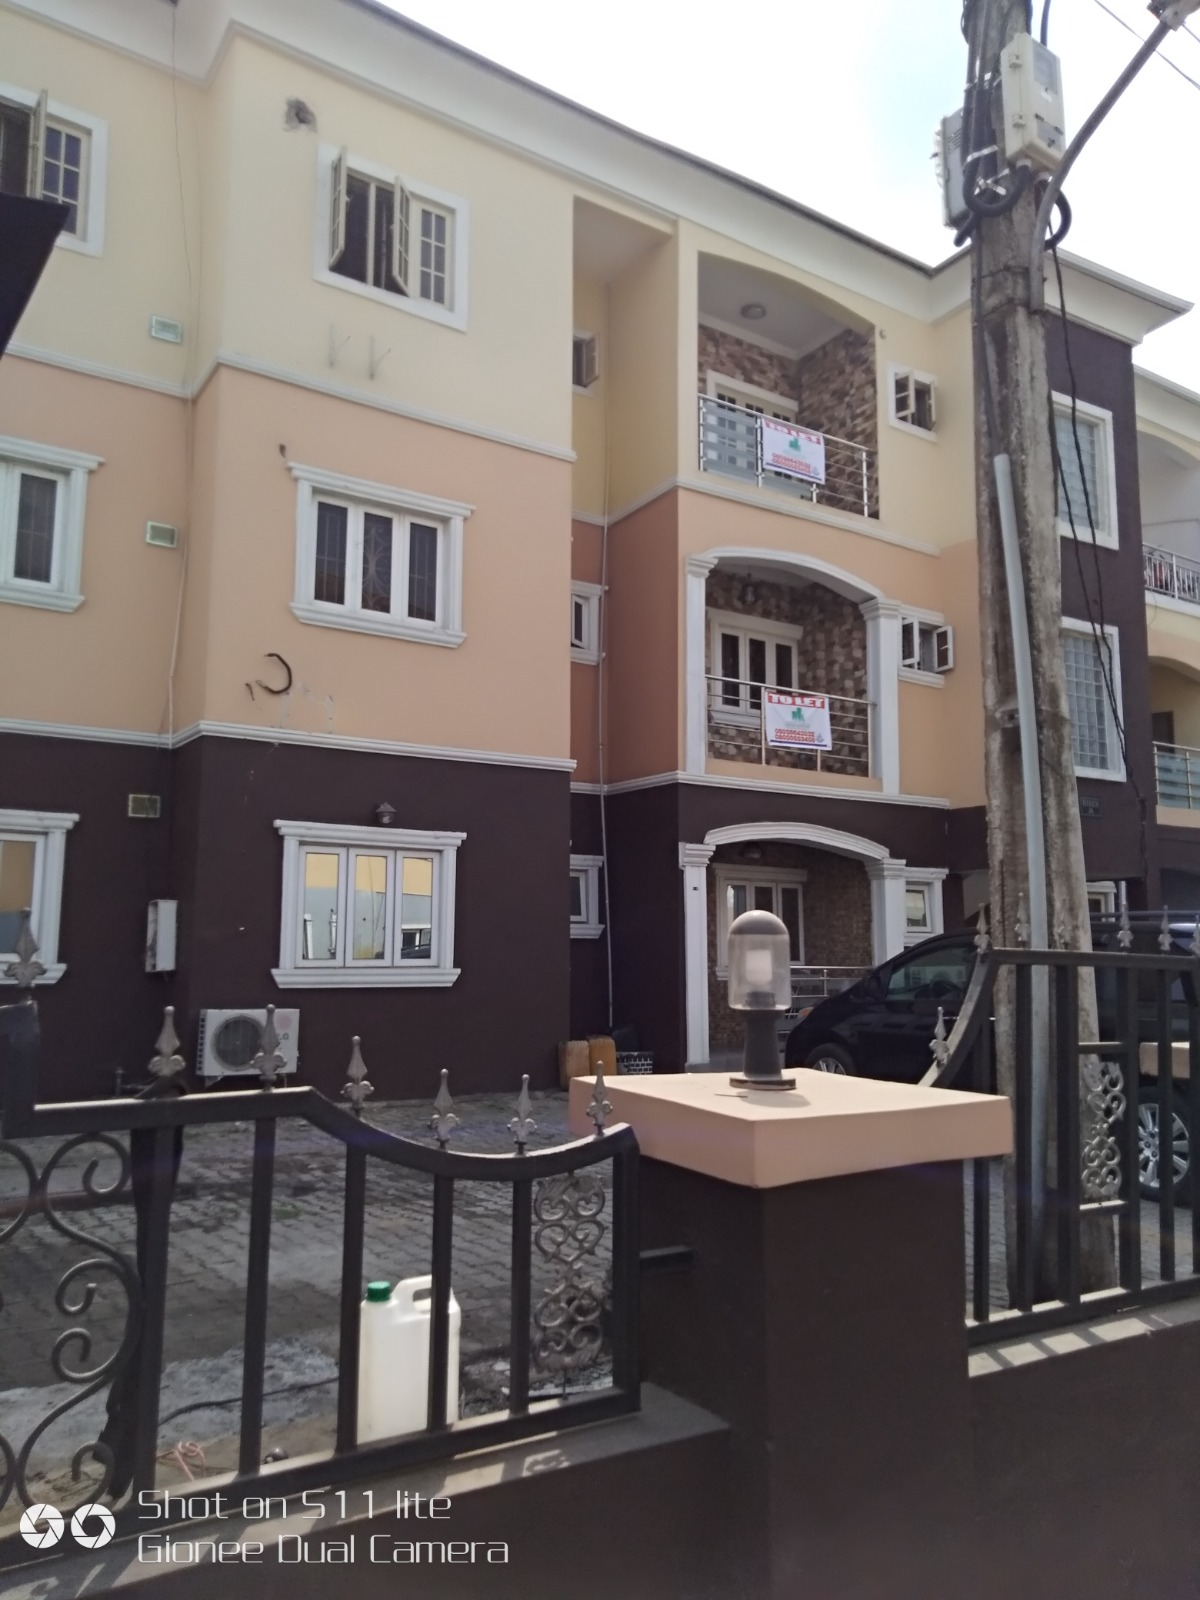
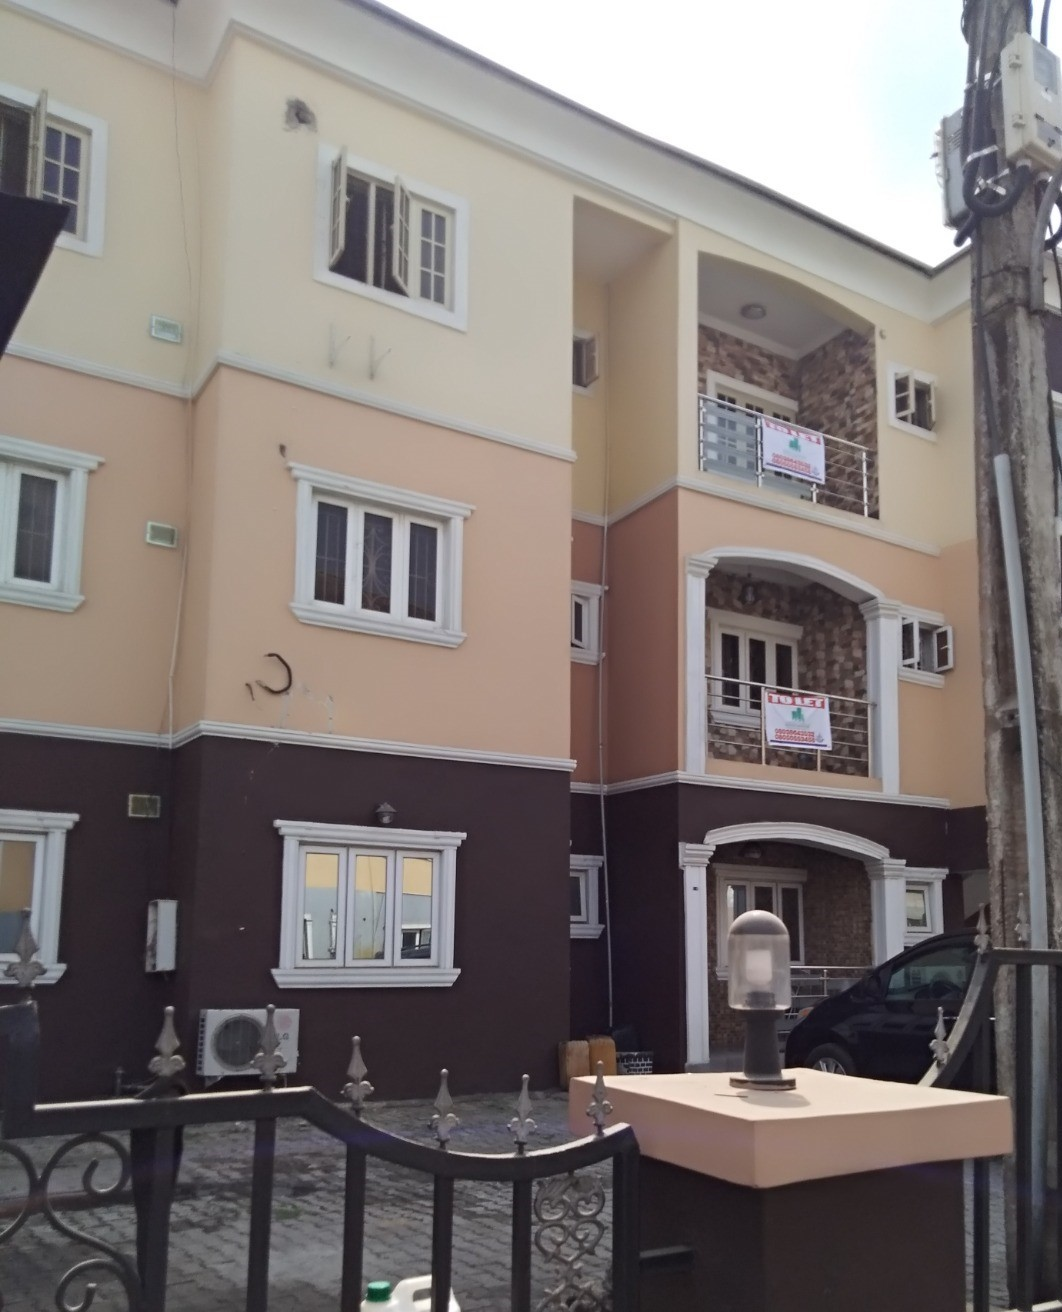
Updated images and listing.html

diff --git a/listing.html b/listing.html
@@ -75,7 +75,7 @@
         <div class="grid md:grid-cols-3 gap-8">
             <!-- Property 1: TO LEASE -->
             <div class="bg-white shadow-lg rounded-lg overflow-hidden">
-                <img src="img/ile1.jpg" alt="Industrial Warehouse" class="w-full h-70% object-cover">
+                <img src="img/ile4.jpg" alt="Industrial Warehouse" class="w-full h-90% object-cover">
                 <div class="p-6">
                     <h3 class="text-xl font-semibold text-orange-600">HOT SALE/LETTING</h3>
                     <p class="text-gray-700 mt-2">Newly built 5 units of 4-bedroom terrace apartments with a maid's
@@ -91,24 +91,24 @@
                 </div>
             </div>
 
-            <!-- Property 2: HOT SALE/LETTING -->
+            <!-- Property 2 -->
             <div class="bg-white shadow-lg rounded-lg overflow-hidden">
-                <img src="img/ile2.jpg" alt="4 Bedroom Terrace Apartment" class="w-full h-60% object-cover">
+                <img src="img/ile2.jpg" alt="4 Bedroom Terrace Apartment" class="w-full h-90% object-cover">
                 <div class="p-6">
-                    <h3 class="text-xl font-semibold text-orange-600">HOT SALE/LETTING</h3>
-                        <h3 class="text-xl font-semibold text-orange-600">FOR SALE</h3>
-                        <p class="text-gray-700 mt-2">A 3-bedroom block of flats with 24hrs security, all rooms ensuite, visitor's toilet, and parking space.</p>
-                        <ul class="text-gray-600 text-sm mt-3">
-                            <li><strong>Location:</strong> Minimal Estate, MM2 Road, Ikeja, Lagos</li>
-                            <li><strong>Price:</strong> 120,000,000</li>
-                        </ul>
+                    <h3 class="text-xl font-semibold text-orange-600">FOR SALE</h3>
+                    <p class="text-gray-700 mt-2">A 3-bedroom block of flats with 24hrs security, all rooms ensuite,
+                        visitor's toilet, and parking space.</p>
+                    <ul class="text-gray-600 text-sm mt-3">
+                        <li><strong>Location:</strong> Minimal Estate, MM2 Road, Ikeja, Lagos</li>
+                        <li><strong>Price:</strong> 120,000,000</li>
+                    </ul>
                     <a href="tel:+2348098338814" class="text-blue-600 underline mt-3 block">Call an Agent</a>
                 </div>
             </div>
 
             <!-- Property 3: FOR SALE -->
             <div class="bg-white shadow-lg rounded-lg overflow-hidden">
-                <img src="img/ile3.jpg" alt="3 Bedroom Block of Flat" class="w-full h-70% object-cover">
+                <img src="img/ile55.jpg" alt="3 Bedroom Block of Flat" class="w-full h-90% object-cover">
                 <div class="p-6">
                     <h3 class="text-xl font-semibold text-orange-600">TO LEASE</h3>
                     <p class="text-gray-700 mt-2">A massive industrial 2 Bays of Warehouse with 11 rooms office space,
@@ -120,7 +120,6 @@
                         <li><strong>Location:</strong> Industrial Estate, Opic Isheri North, Lagos-Ibadan Expressway
                         </li>
                     </ul>
-
                     <a href="tel:+2348098338814" class="text-blue-600 underline mt-3 block">Call an Agent</a>
                 </div>
             </div>
